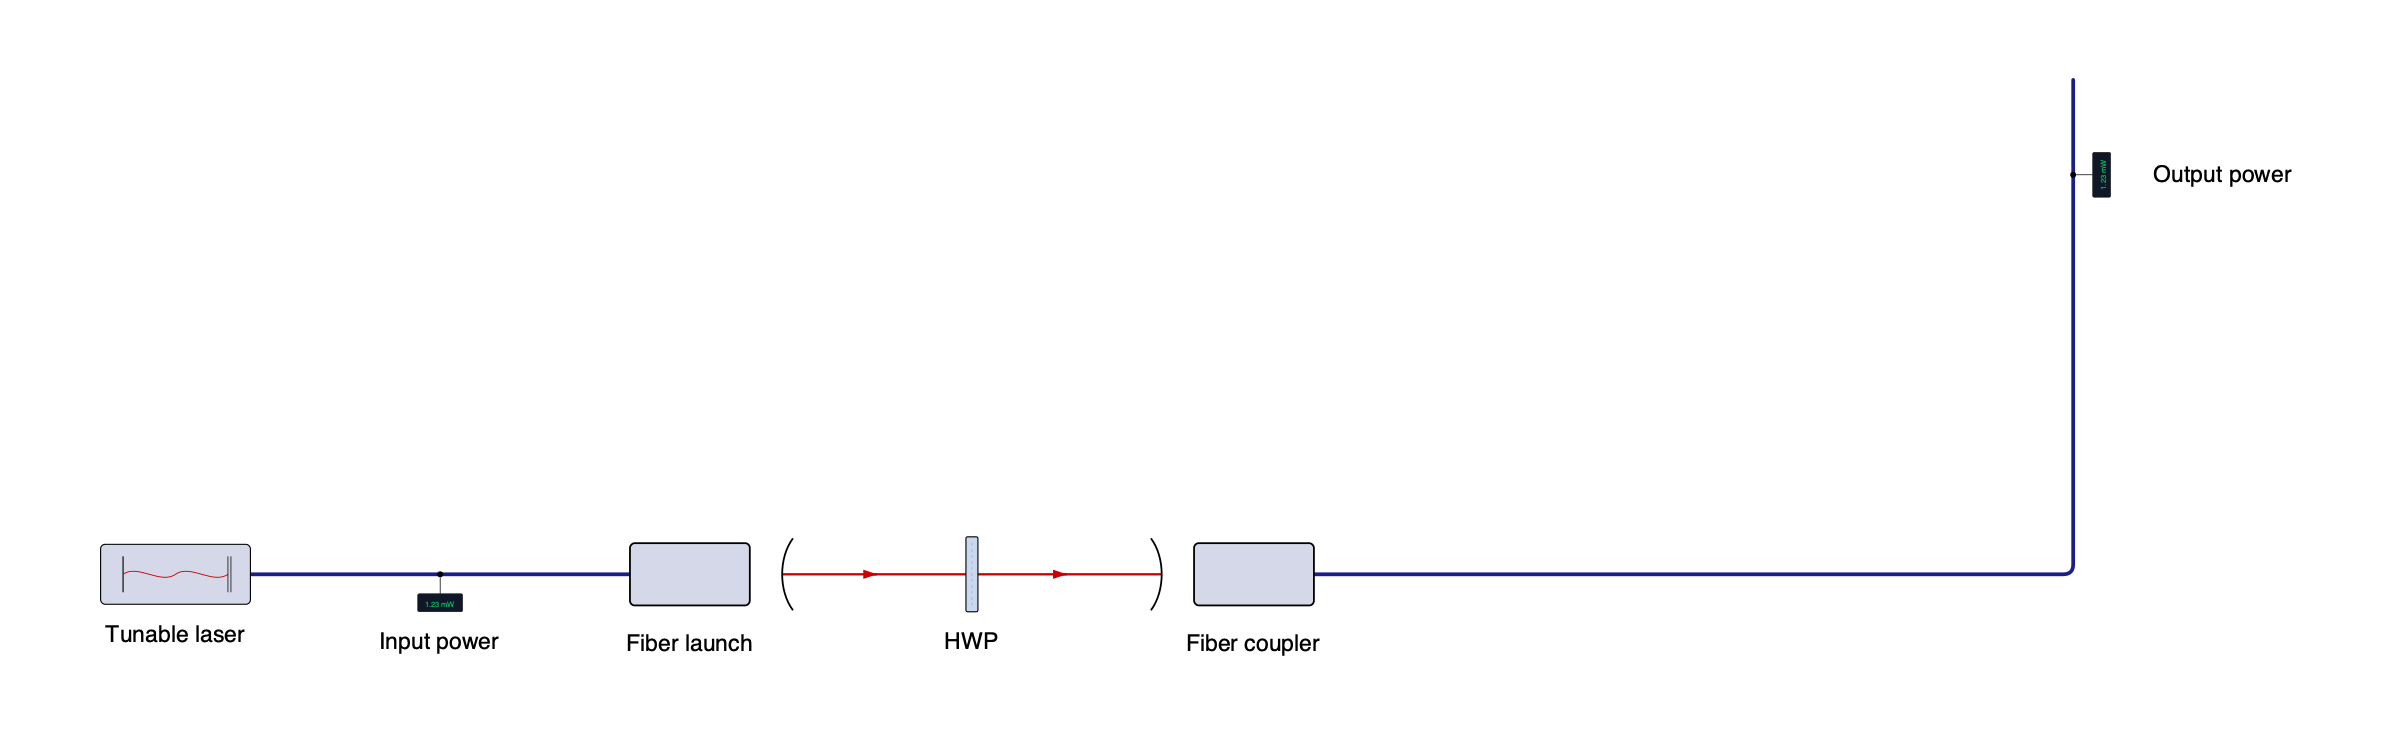
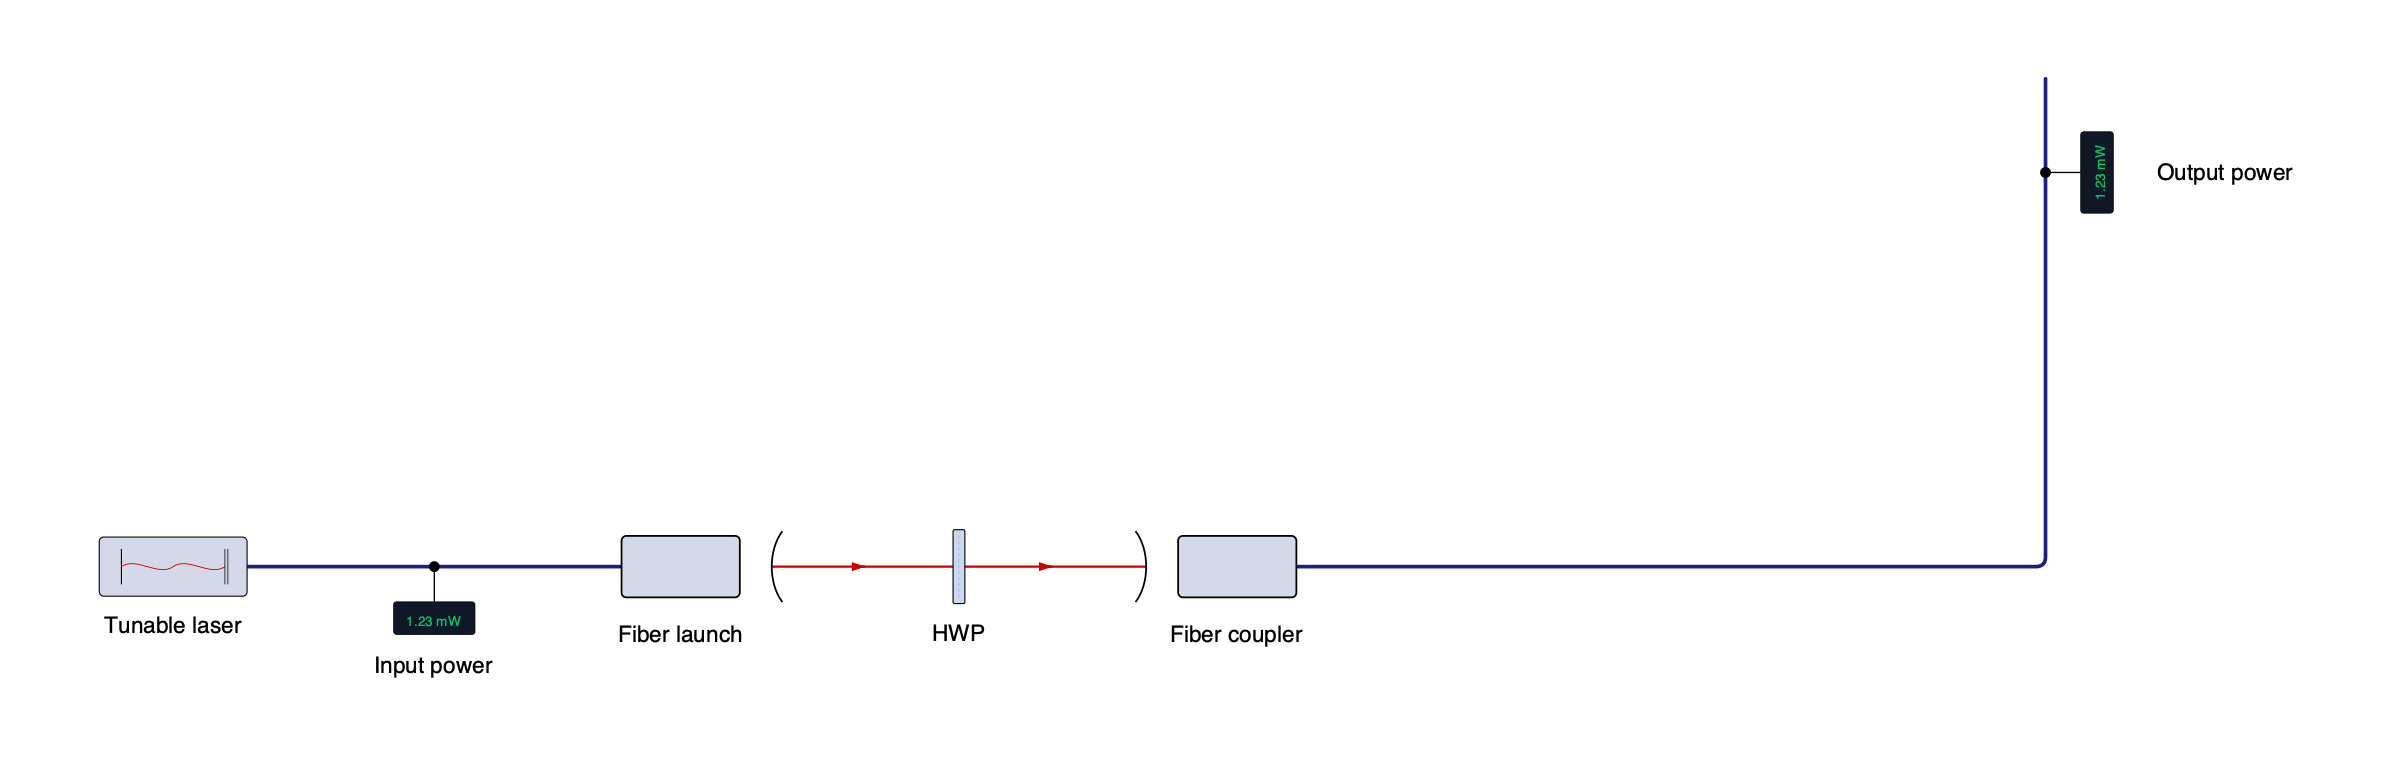
Enlarge inline power tap to match fiber meter width

Changed region(s): [[0.0312, 0.1247, 0.9688, 0.9038]]

diff --git a/src/beampath/components.py b/src/beampath/components.py
@@ -179,7 +179,7 @@ register_component(ComponentDefinition(
 register_component(ComponentDefinition(
     "inline_power_meter", "Inline power meter",
     _art("f-inline-power-meter.svg", "fiber-optics/flat_2d/svg/11_inline_components",
-         (85, 27), (69, 25, 101, 53), 1.5,
+         (85, 27), (69, 25, 101, 53), 2.75,  # Match the standalone meter housing width.
          adaptations="Inline power-meter display changed to 1.23 mW and kept aligned with its housing. "
                      "Embedded fiber line removed; both fiber ports attach at the tap."),
     _fiber_meter))
